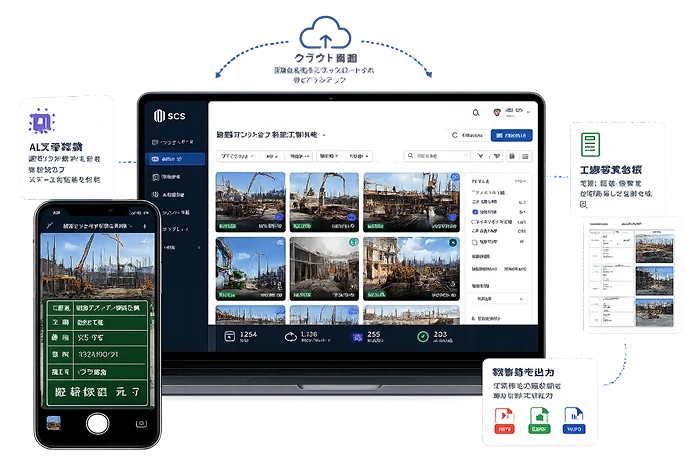
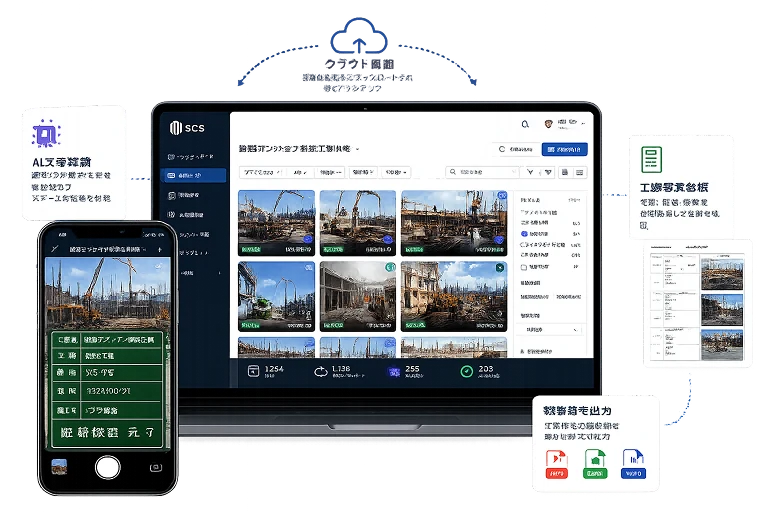
差し替えられた image 2.png に合わせてヒーロー画像を再生成
image 2.png が 696x464 から 768x512 に差し替えられていたため、
hero-product.webp を新しい原本から作り直した（512KB → 125KB）。

あわせて <Image> の width / height と max-w も実寸に合わせた。
指定が原本とずれていると、Next.js が確保するレイアウト枠の縦横比が
実際の画像と合わず、読み込み時にガタつく。

diff --git a/src/app/page.tsx b/src/app/page.tsx
@@ -169,11 +169,11 @@ export default function LandingPage() {
             <Image
               src="/brand/hero-product.webp"
               alt="スマートフォンの電子小黒板とパソコンの工事写真台帳が、クラウドで連携している様子"
-              width={696}
-              height={464}
+              width={768}
+              height={512}
               priority
               sizes="(max-width: 1024px) 92vw, 640px"
-              className="h-auto w-full max-w-[696px] justify-self-center lg:justify-self-end"
+              className="h-auto w-full max-w-[768px] justify-self-center lg:justify-self-end"
             />
           </div>
         </section>
